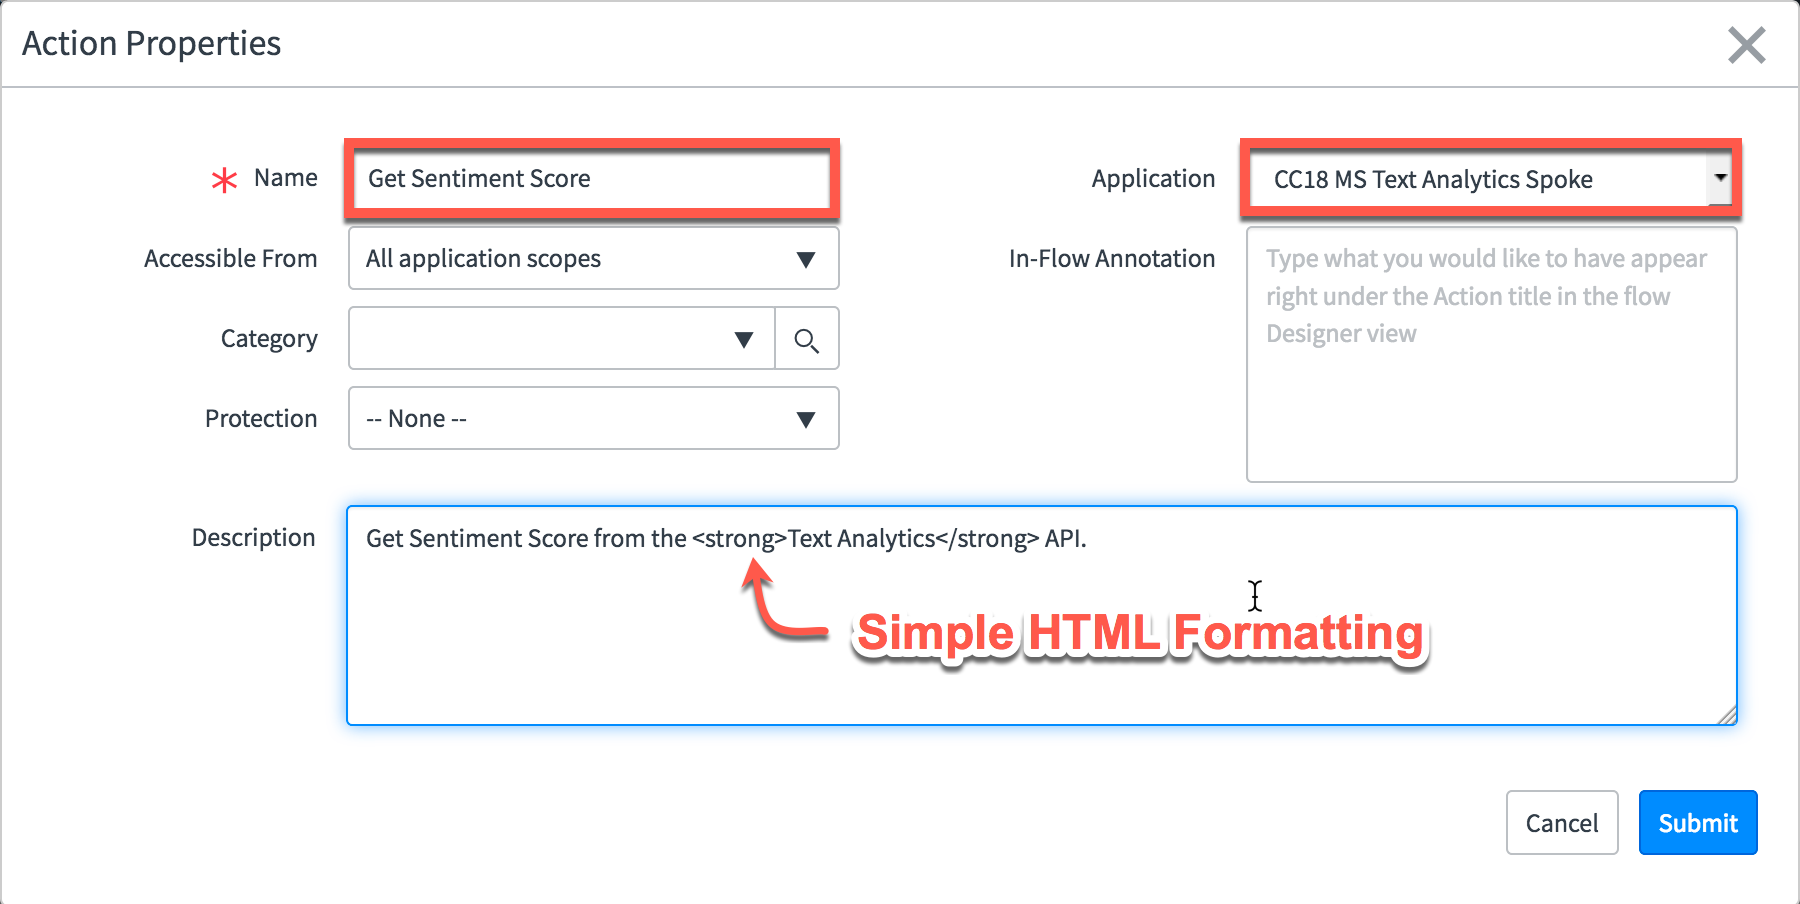
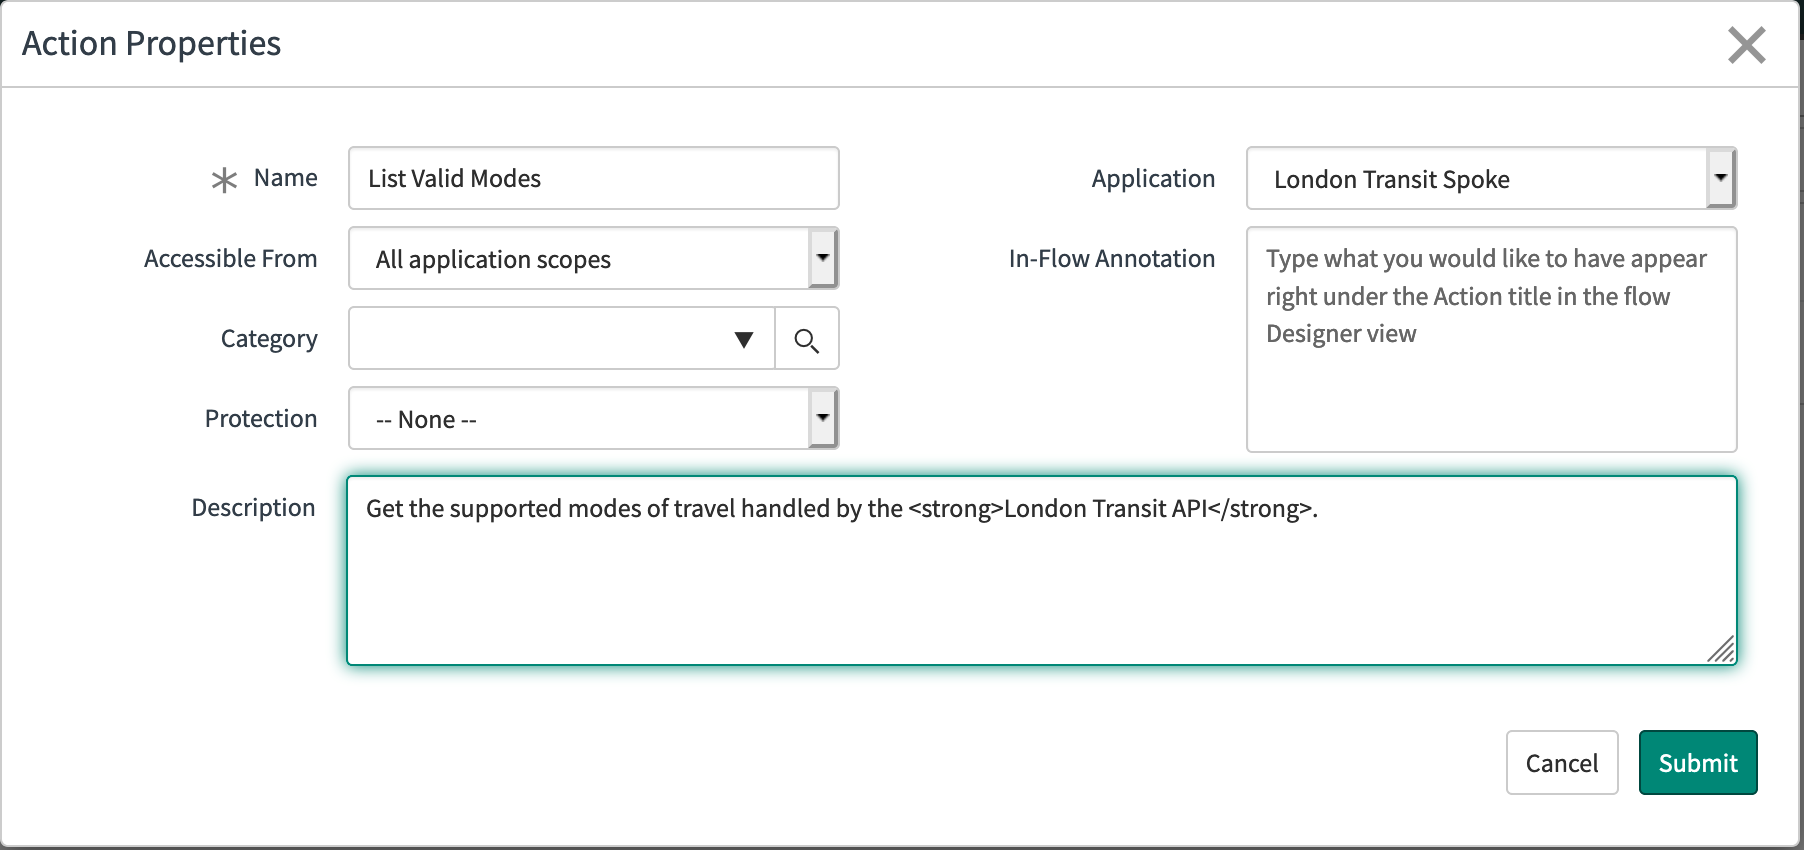
Updated through Create  First  Action

Changed region(s): [[0.0, 0.0, 1.0, 1.0], [0.0933, 0.4588, 0.1867, 0.52], [0.0, 0.0306, 0.1556, 0.0612]]

diff --git a/guidebook.md b/guidebook.md
@@ -65,22 +65,24 @@ Now that you have a scoped app to work with, it’s time to create your first Ac
 
 To launch Flow Designer, navigate to **Flow Designer > Designer**.
 
-![Alt Text](images/011_launch_flow_designer.png)
+![Flow Designer User Interface](images/011_launch_flow_designer.png)
 
 This opens a new UI where you will manage and build Actions, Flows and Subflows.
 
 ![Alt Text](images/012_flow_designer_ui.png)
 
-## Create the Action
+## Create the First Action
 
-1. Click the **+ New** button, and then click **New Action** in the resulting menu.
+1. Click the **+ New** button, and then click **Action** in the resulting menu.
 
-    ![Alt Text](images/013_new_action.png)
+    ![Click Action](images/013_new_action.png)
 
 2. Fill out the Action Properties form.
 
-    **Name:** Get Sentiment Score
-    **Application:** Microsoft Text Analytics Spoke
+    **Name:** List Valid Modes
+
+    **Application:** London Transit Spoke
+
     **Description:** Enter a description - simple HTML tags are also supported
 
     ![Alt Text](images/014_action_description.png)
